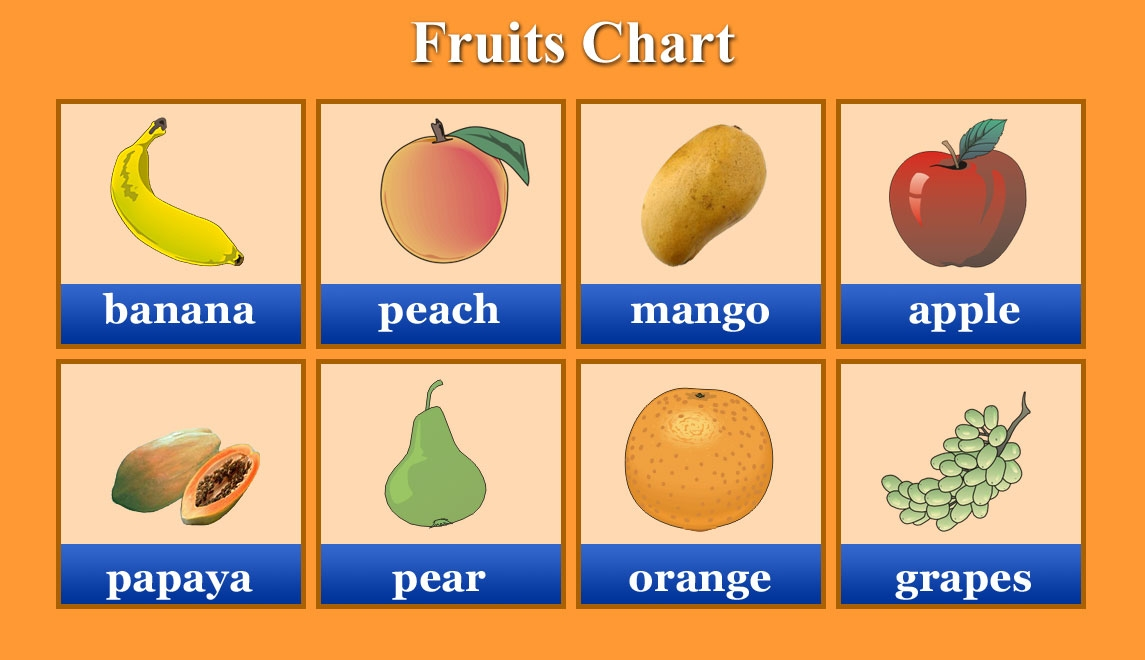
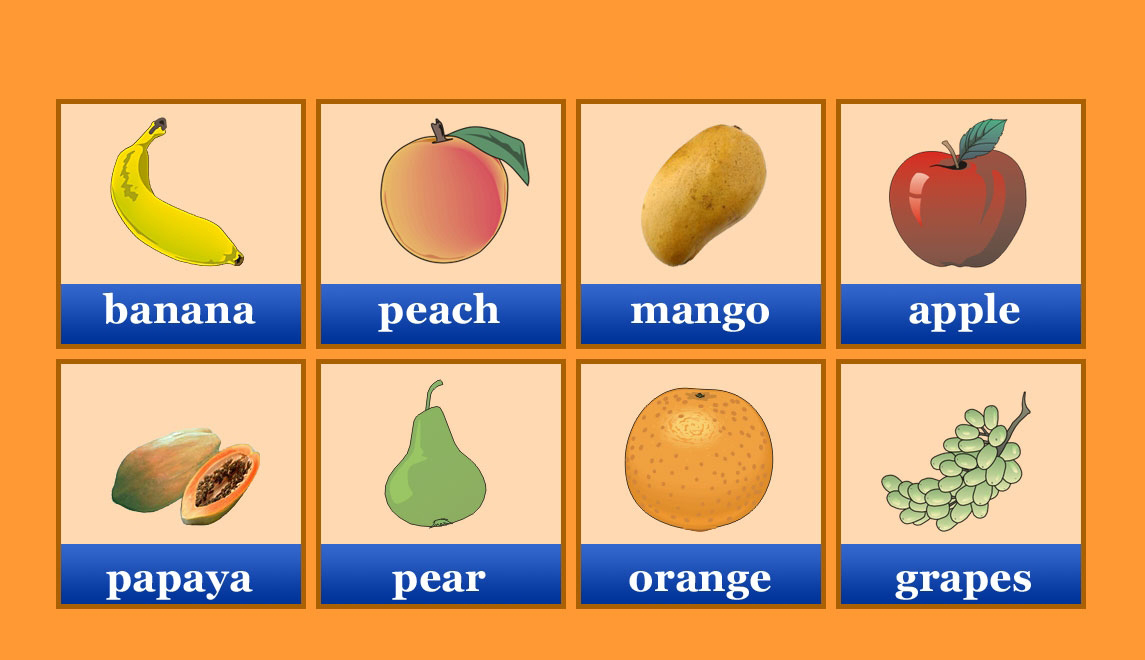
Added custom instructions to each vocabulary lesson and updated some of the images to remove their title.

diff --git a/templates/vocabulary/vocabulary.js b/templates/vocabulary/vocabulary.js
@@ -1,6 +1,6 @@
 function generateScreen0(karma, $container) {
-    createDiv('instruction')
-        .append('Click on the words and listen')
+    createDiv('instructions')
+        .append(instructions0)
         .appendTo($container);
     var $vocab_img = createDiv('vocabImg')
         .appendTo($container);
@@ -69,7 +69,7 @@ function generateScreen1(karma, $container) {
     };
 
     $container
-        .append(createDiv('instruction')
+        .append(createDiv('instructions')
                 .append('Drag and drop the correct word in each box'))
         .append(createDiv('quesSection'))
         .append(createDiv('optionSection'));

diff --git a/templates/vocabulary/vocabulary.css b/templates/vocabulary/vocabulary.css
@@ -4,7 +4,7 @@
     background: url(background.jpg) no-repeat center;
 }
 
-#instruction {
+#instructions {
     font: 30px Arial, Helvetica, sans-serif;
     position: relative;
     top: 8px;

diff --git a/lessons/vocabulary-clothes/description.py b/lessons/vocabulary-clothes/description.py
@@ -1,5 +1,5 @@
 lesson(grade=2, subject='English', title='Vocabulary Clothes', week=15,
-    summary=u'केही लुगाहरूका नाम सिक्ने क्रियाकलाप')
+       summary=u'केही लुगाहरूका नाम सिक्ने क्रियाकलाप')
 
 include('../../templates/vocabulary/description.py')
 
@@ -7,12 +7,12 @@ items = [
     dict(name='cap', left=138, top=290, width=85),
     dict(name='shirt', left=387, top=285, width=110),
     dict(name='coat', left=650, top=287, width=100),
-    dict(name='dress', left=906, top=287, width=120), # TBD: doesn't look like a dress to me
+    dict(name='suit', left=906, top=287, width=120),
     dict(name='skirt', left=120, top=553, width=120),
     dict(name='gloves', left=372, top=553, width=134),
     dict(name='socks', left=639, top=553, width=120),
     dict(name='shoes', left=900, top=553, width=124)]
 
-register_objects(items)
+register_objects('Click on the name of each clothing item and listen', items)
 
 image('vocabImg.jpg')

diff --git a/lessons/vocabulary-birds/description.py b/lessons/vocabulary-birds/description.py
@@ -1,9 +1,9 @@
 lesson(grade=2, subject='English', title='Vocabulary Birds', week=11,
-    summary=u'केही चराचुरूङ्गीहरूका नाम सिक्ने क्रियाकलाप')
+       summary=u'केही चराचुरूङ्गीहरूका नाम सिक्ने क्रियाकलाप')
 
 include('../../templates/vocabulary/description.py')
 
-animals = [
+birds = [
     dict(name='crow', left=465, top=69, width=130),
     dict(name='parrot', left=943, top=115, width=150),
     dict(name='eagle', left=72, top=249, width=140),
@@ -13,6 +13,6 @@ animals = [
     dict(name='egret', left=275, top=553, width=130),
     dict(name='sparrow', left=777, top=581, width=200)]
 
-register_objects(animals)
+register_objects('Click on the name of each bird and listen', birds)
 
 image('vocabImg.jpg')

diff --git a/lessons/vocabulary-objects/description.py b/lessons/vocabulary-objects/description.py
@@ -1,5 +1,5 @@
 lesson(grade=2, subject='English', title='Vocabulary Objects', week=5,
-    summary=u'विभिन्न वस्तुहरूका नाम सिक्ने क्रियाकलाप')
+       summary=u'विभिन्न वस्तुहरूका नाम सिक्ने क्रियाकलाप')
 
 include('../../templates/vocabulary/description.py')
 objects = [
@@ -12,6 +12,6 @@ objects = [
     dict(name='ladder', left=890, top=553, width=150),
     dict(name='soap', left=379, top=287, width=120)]
 
-register_objects(objects)
+register_objects('Click on the name of each object and listen', objects)
 
 image('vocabImg.jpg')

diff --git a/lessons/vocabulary-domestic-animals/description.py b/lessons/vocabulary-domestic-animals/description.py
@@ -1,5 +1,5 @@
 lesson(grade=2, subject='English', title='Vocabulary Domestic Animals', week=4,
-    summary=u'घरपालुवा जनावरहरूका नाम सिक्ने क्रियाकलाप')
+       summary=u'घरपालुवा जनावरहरूका नाम सिक्ने क्रियाकलाप')
 
 include('../../templates/vocabulary/description.py')
 
@@ -13,6 +13,6 @@ items = [
     dict(name='duck', left=735, top=590, width=118),
     dict(name='rabbit', left=990, top=505, width=150)]
 
-register_objects(items)
+register_objects('Click on the name of each animal and listen', items)
 
 image('vocabImg.jpg')

diff --git a/lessons/vocabulary-body-parts/description.py b/lessons/vocabulary-body-parts/description.py
@@ -1,5 +1,5 @@
 lesson(grade=2, subject='English', title='Vocabulary Body Parts', week=14,
-    summary=u'शरीरका केही अङ्गहरुका नाम सिक्ने क्रियाकलाप')
+       summary=u'शरीरका केही अङ्गहरुका नाम सिक्ने क्रियाकलाप')
 
 include('../../templates/vocabulary/description.py')
 
@@ -13,6 +13,6 @@ parts = [
     dict(name='knee', left=175, top=440, width=115),
     dict(name='foot', left=868, top=497, width=110)]
 
-register_objects(parts)
+register_objects('Click on each word and listen', parts)
 
 image('vocabImg.jpg')

diff --git a/lessons/vocabulary-plants/description.py b/lessons/vocabulary-plants/description.py
@@ -4,7 +4,7 @@ lesson(grade=2, subject='English', title='Vocabulary Plants', week=17,
 
 include('../../templates/vocabulary/description.py')
 
-animals = [
+plants = [
     dict(name='leaf', left=175, top=69, width=110),
     dict(name='branch', left=953, top=130, width=160),
     dict(name='fruit', left=132, top=190, width=115),
@@ -14,6 +14,6 @@ animals = [
     dict(name='grass', left=260, top=605, width=140),
     dict(name='plant', left=580, top=585, width=140)]
 
-register_objects(animals)
+register_objects('Click on each plant and listen', plants)
 
 image('vocabImg.jpg')

diff --git a/templates/vocabulary/description.py b/templates/vocabulary/description.py
@@ -14,11 +14,12 @@ lesson_js = java_script('lesson.js', generated=True)
 java_script('vocabulary.js')
 
 
-def register_objects(objects):
+def register_objects(instructions, objects):
     for o in objects:
         name = o['name']
         image(name + '.png', name)
         audio(name + '.ogg', name)
+    print >>lesson_js, 'var instructions0 = \'%s\';' % instructions
     prefix = 'var objects = ['
     print >>lesson_js, prefix + (',\n' + ' ' * len(prefix)).join(
         ["{name: '%s', position: {left: %s, top: %s, width: %s}}" % (o['name'],

diff --git a/lessons/vocabulary-transportation/description.py b/lessons/vocabulary-transportation/description.py
@@ -3,7 +3,7 @@
 
 include('../../templates/vocabulary/description.py')
 
-animals = [
+transportations = [
     dict(name='ship', left=125, top=100, width=105),
     dict(name='airplane', left=630, top=70, width=200),
     dict(name='boat', left=940, top=195, width=110),
@@ -13,6 +13,6 @@ animals = [
     dict(name='bicycle', left=195, top=590, width=175),
     dict(name='cart', left=1000, top=540, width=105)]
 
-register_objects(animals)
+register_objects('Click on each word and listen', transportations)
 
 image('vocabImg.jpg')

diff --git a/lessons/vocabulary-structures/description.py b/lessons/vocabulary-structures/description.py
@@ -13,6 +13,6 @@ items = [dict(name='house', left=110, top=290, width=135),
          dict(name='garden', left=625, top=553, width=150),
          dict(name='wall', left=910, top=553, width=115)]
 
-register_objects(items)
+register_objects('Click on the name of each structure and listen', items)
 
 image('vocabImg.jpg')

diff --git a/lessons/vocabulary-professions/description.py b/lessons/vocabulary-professions/description.py
@@ -13,7 +13,7 @@ items = [
     dict(name='tailor', left=372, top=553, width=134),
     dict(name='teacher', left=880, top=287, width=160)]
 
-register_objects(items)
+register_objects('Click on the word below each person to hear his or her profession', items)
 
 image('vocabImg.jpg')
 css('lesson.css')
